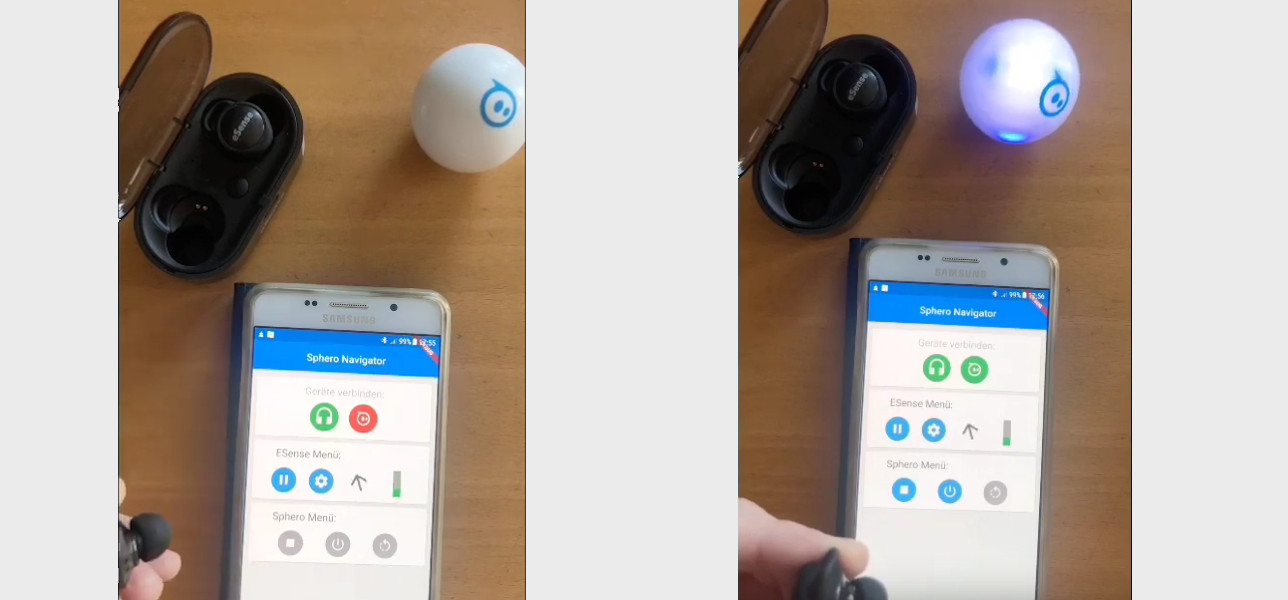
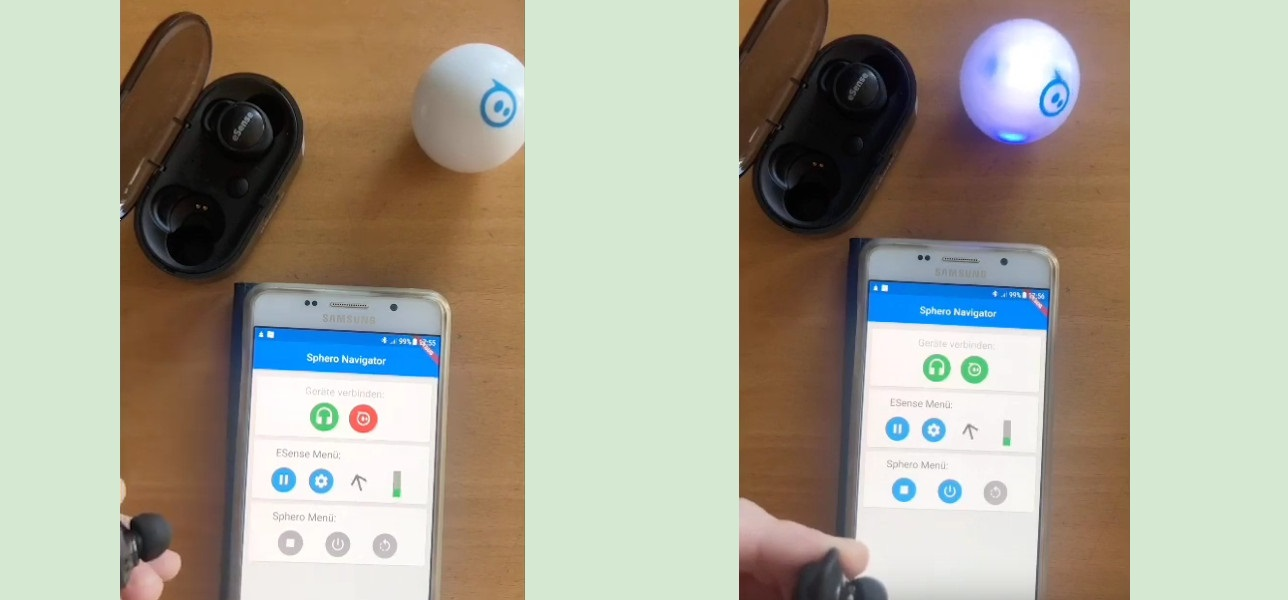
changed portfolio images to match primary color

diff --git a/src/projects/Sphero.js b/src/projects/Sphero.js
@@ -12,13 +12,14 @@ const markdownText = `
 ---
 This project was created during the class "Mobile Computing und Internet der Dinge" at the KIT. 
 The task was to create an android app that makes use of the esense earables. 
-The earables are basically Bluetooth earbuds with additional accelerometer and gyroscope sensors. 
-My idea was to use the earables as a funny way to control the Sphero Mini robot ball. 
+The earables are Bluetooth earbuds with additional accelerometer and gyroscope sensors. 
+My idea was to use the earables as a fun way to control the Sphero Mini robot ball. 
 Originally the Sphero Mini is meant as a toy to help kids learn to program. 
 So I thought it should be quite easy to connect to the Sphero Mini with an own app. 
 Unfortunately, there was no documentation about the Bluetooth Low Energy interface. 
 After struggling many hours, I found a GitHub repository where somebody figured out the byte sequences to start and control the Sphero Mini. 
-With that information, I managed to implement the app and successfully connected to the Sphero. Watch the demonstration video to see the Sphero Mini in action.
+With that information, I managed to implement the app and successfully connected to the Sphero. 
+Watch the demonstration video to see the Sphero Mini in action.
 `
 
 function Sphero(props) {

diff --git a/src/home/Portfolio.js b/src/home/Portfolio.js
@@ -35,7 +35,7 @@ function Portfolio(props) {
 
 
     const images = [
-        { file: spheroImage, link: "/sphero" },
+        { file: spheroImage, link: "/sphero", title: "Sphero Mini - Controller" },
         { file: asuroImage, link: "/asuro" },
         { file: beatuifulMathsImage, link: "/beautiful-maths" },
         { file: carAIImage, link: "/#portfolio" },
@@ -52,7 +52,7 @@ function Portfolio(props) {
             Portfolio
         </Typography>
         <Grid container spacing={4} data-aos="fade-up" data-aos-delay="100">
-            {images.map((img, idx) => <SingleProject imgFile={img.file} link={img.link} key={idx} />)}
+            {images.map((img, idx) => <SingleProject imgFile={img.file} link={img.link} title={img.title} key={idx} />)}
         </Grid>
     </Section>
 }

diff --git a/src/projects/general/ProjectCard.js b/src/projects/general/ProjectCard.js
@@ -9,6 +9,9 @@ const useStyles = makeStyles(theme => ({
     divider: {
         backgroundColor: theme.palette.grey[600],
         marginTop: "10px"
+    },
+    btn: {
+        color: "white"
     }
 }))
 
@@ -55,7 +58,7 @@ function ProjectCard({ title, idea, goal, tools, githubUrl, btnText, btnUrl }) {
         <CardActions>
             <Grid container justify="center">
                 <Box width="200px">
-                    <Button color="primary" variant="contained" fullWidth onClick={() => window.open(btnUrl, "_blank")}>
+                    <Button color="primary" className={classes.btn} variant="contained" fullWidth onClick={() => window.open(btnUrl, "_blank")}>
                         {btnText}
                     </Button>
                 </Box>

diff --git a/src/index.js b/src/index.js
@@ -3,12 +3,12 @@ import ReactDOM from 'react-dom';
 import App from './App';
 import { BrowserRouter } from 'react-router-dom';
 import { createMuiTheme, ThemeProvider } from '@material-ui/core/styles';
-import { blue } from '@material-ui/core/colors';
+import { green } from '@material-ui/core/colors';
 import './style.css';
 
 const theme = createMuiTheme({
   palette: {
-    primary: blue,
+    primary: green,
   },
   typography: {
     fontFamily: "'Open Sans', sans-serif"

diff --git a/src/projects/general/ImageSwiper.js b/src/projects/general/ImageSwiper.js
@@ -10,6 +10,9 @@ const useStyles = makeStyles(theme => ({
         '& img, .swiper-slide-active': {
             width: "100% !important"
         },
+        '& .swiper-button-prev, .swiper-button-next': {
+            color: theme.palette.primary.main
+        },
         '& .swiper-pagination': {
             marginTop: "20px",
             position: "relative",

diff --git a/src/BacktoTopButton.js b/src/BacktoTopButton.js
@@ -20,7 +20,8 @@ function BacktoTopButton({ isSidebarOpen, setSidebarOpen }) {
             bottom: theme.spacing(2),
             right: theme.spacing(2),
             visibility: isSidebarOpen ? visibilityStr : "hidden",
-            zIndex: "1"
+            zIndex: "1",
+            color: "white"
         }
     }))
 

diff --git a/src/home/SingleProject.js b/src/home/SingleProject.js
@@ -37,7 +37,7 @@ const useStyles = makeStyles(theme => ({
     }
 }))
 
-function SingleProject({ imgFile, link }) {
+function SingleProject({ imgFile, link, title }) {
     const classes = useStyles()
     return <Grid item md={4} sm={6} xs={12}>
         <Link to={link}>

diff --git a/src/Sidebar.js b/src/Sidebar.js
@@ -16,7 +16,8 @@ const useStyles = makeStyles(theme => ({
         position: "fixed",
         top: theme.spacing(2),
         right: theme.spacing(2),
-        zIndex: "2"
+        zIndex: "2",
+        color: "white"
     }
 }))
 

diff --git a/src/home/Heropage.js b/src/home/Heropage.js
@@ -21,6 +21,7 @@ const useStyles = makeStyles(theme => ({
     },
     text: {
         color: theme.palette.common.white,
+        marginTop: "50px"
     }
 }))
 
